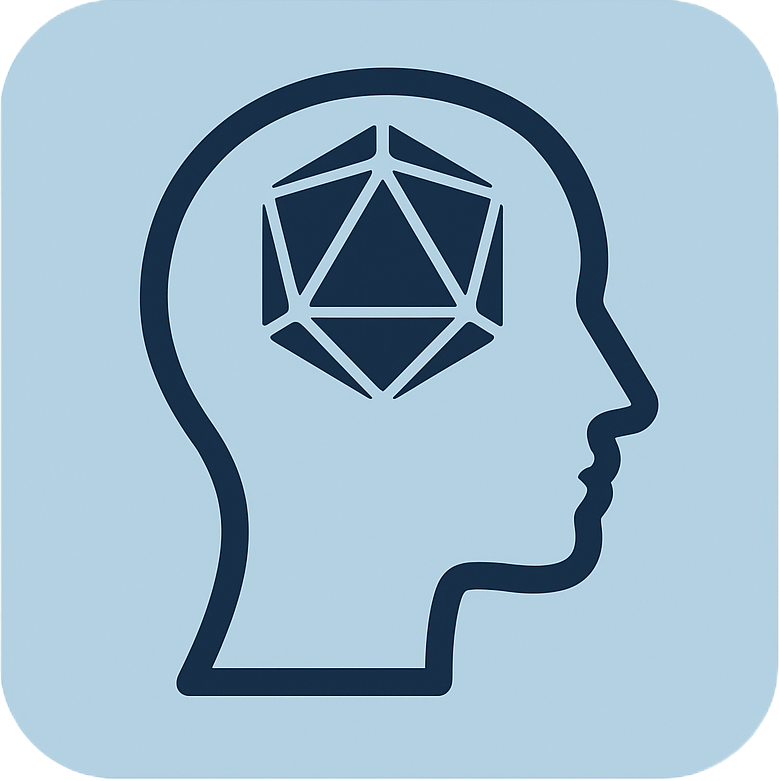
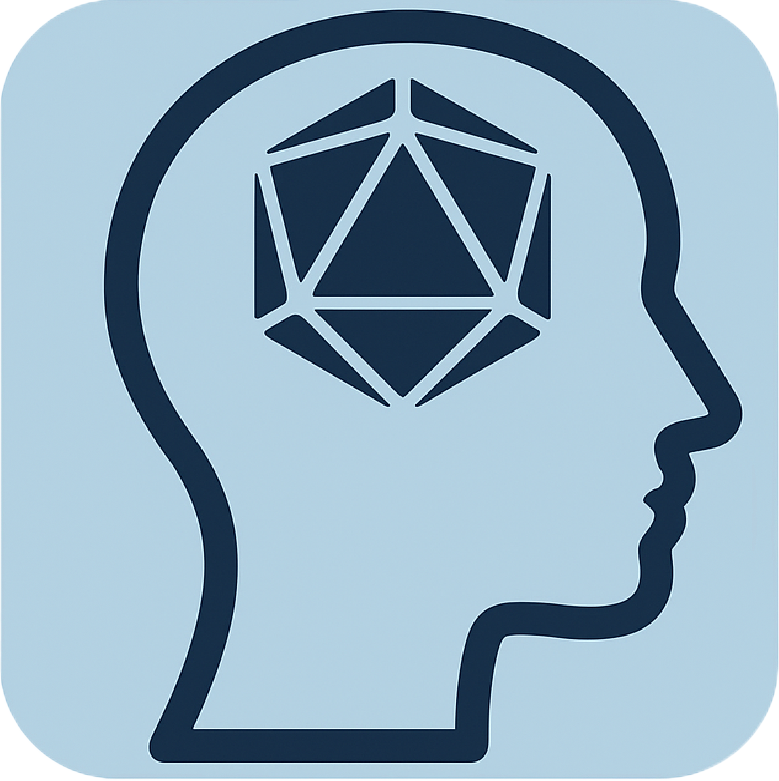
Add ICampaignRepository and SqliteCampaignRepository for use in the campaign selector combo box (coming) Update MainWindowViewModel to load campaigns Updated NoteBase to have a Campaign associated with the note Updated/Migrated EF database Updated AppIcon. not happy with it yet

Changed region(s): [[0.1232, 0.0, 0.9551, 0.9834]]

diff --git a/MindLedger.App/MainWindow.xaml b/MindLedger.App/MainWindow.xaml
@@ -27,7 +27,18 @@
             <ui:DropDownButton Margin="10"
                                Height="50"
                                Width="210"
-                               Content="Placeholder Kampagne"/>
+                               Content="Kampagne wählen"
+                               ClickMode="Press"
+                               IsDropDownOpen="True">
+                <ui:DropDownButton.Flyout>
+                    <ui:Flyout Placement="Bottom">
+                        <Border Background="White" BorderBrush="Gray" BorderThickness="1" Padding="10">
+                            <TextBlock Text="Testinhalt" Foreground="Black"/>
+                        </Border>
+                    </ui:Flyout>
+                </ui:DropDownButton.Flyout>
+            </ui:DropDownButton>
+            
             
             <Expander Header="Sessions"
                       IsExpanded="True"

diff --git a/MindLedger.Infrastructure/Repositories/SqliteCampaignRepository.cs b/MindLedger.Infrastructure/Repositories/SqliteCampaignRepository.cs
@@ -1,0 +1,73 @@
+using Microsoft.EntityFrameworkCore;
+using MindLedger.Domain;
+using MindLedger.Domain.Interfaces;
+using MindLedger.Infrastructure.Persistence;
+using System;
+using System.Collections.Generic;
+using System.Linq;
+using System.Text;
+using System.Threading.Tasks;
+
+namespace MindLedger.Infrastructure.Repositories
+{
+    public class SqliteCampaignRepository : ICampaignRepository
+    {
+        private readonly MindLedgerDbContext _context;
+
+        public SqliteCampaignRepository(MindLedgerDbContext context)
+        {
+            _context = context;
+        }
+
+
+        public async Task<List<Campaign>> GetAllAsync()
+        {
+            return await _context.Campaigns.ToListAsync();
+        }
+
+        public async Task<Campaign?> GetByIdAsync(Guid id)
+        {
+            return await _context.Campaigns.FindAsync(id);
+        }
+
+        public async Task<Campaign?> GetByTitleAsync(string title)
+        {
+            return await _context.Campaigns.FirstOrDefaultAsync(c => c.Title == title);
+        }
+
+        public async Task AddAsync(Campaign campaign)
+        {
+            _context.Campaigns.Add(campaign);
+            await _context.SaveChangesAsync();
+        }
+
+        public async Task UpdateAsync(Campaign campaign)
+        {
+            _context.Campaigns.Update(campaign);
+            await _context.SaveChangesAsync();
+        }
+
+        public async Task DeleteAsync(Guid id)
+        {
+            var campaign = await _context.Campaigns.FindAsync(id);
+            if (campaign != null)
+            {
+                _context.Campaigns.Remove(campaign);
+                await _context.SaveChangesAsync();
+            }
+        }
+
+        public async Task<List<NoteBase>> GetAllNotesByCampaignAsync(Guid campaignId)
+        {
+            var result = new List<NoteBase>();
+
+            result.AddRange(await _context.Sessions.Where(s => s.CampaignId == campaignId).ToListAsync());
+            result.AddRange(await _context.Charakters.Where(c => c.CampaignId == campaignId).ToListAsync());
+            result.AddRange(await _context.Npcs.Where(n => n.CampaignId == campaignId).ToListAsync());
+            result.AddRange(await _context.Locations.Where(l => l.CampaignId == campaignId).ToListAsync());
+            result.AddRange(await _context.WorldNotes.Where(w => w.CampaignId == campaignId).ToListAsync());
+
+            return result;
+        }
+    }
+}

diff --git a/MindLedger.AppLogic/ViewModels/MainWindowViewModel.cs b/MindLedger.AppLogic/ViewModels/MainWindowViewModel.cs
@@ -9,12 +9,14 @@ namespace MindLedger.AppLogic.ViewModels;
 
 public partial class MainWindowViewModel : ObservableObject
 {
+    private readonly ICampaignRepository _campaignRepository;
     private readonly INoteRepository _noteRepository;
     private readonly ITagRepository _tagRepository;
 
+    public ObservableCollection<Campaign> Campaigns { get; } = new();
+    public ObservableCollection<NoteBase> Notes { get; } = new();
     public ObservableCollection<Tag> AllTags { get; } = new();
     public ObservableCollection<Tag> SelectedTags { get; } = new();
-    public ObservableCollection<NoteBase> Notes { get; } = new();
 
     [ObservableProperty]
     private string title = string.Empty;
@@ -23,12 +25,31 @@ public partial class MainWindowViewModel : ObservableObject
     private string content = string.Empty;
 
     [ObservableProperty]
+    private Campaign? selectedCampaign;
+
+    [ObservableProperty]
     private NoteBase? selectedNote;
 
-    public MainWindowViewModel(INoteRepository noteRepository, ITagRepository tagRepository)
+    public MainWindowViewModel(INoteRepository noteRepository, ITagRepository tagRepository, ICampaignRepository campaignRepository)
     {
+        _campaignRepository = campaignRepository;
         _noteRepository = noteRepository;
         _tagRepository = tagRepository;
+    }
+
+    /// <summary>
+    /// Asynchronously loads all campaigns from the repository and updates the collection.
+    /// </summary>
+    /// <remarks>This method clears the current collection of campaigns and populates it with the campaigns retrieved
+    /// from the repository. It is intended to be used when refreshing or initializing the campaigns collection.</remarks>
+    /// <returns>A task that represents the asynchronous operation</returns>
+    [RelayCommand]
+    public async Task LoadCampaignAsync()
+    {
+        Campaigns.Clear();
+        var campaigns = await _campaignRepository.GetAllAsync();
+        foreach (var c in campaigns)
+            Campaigns.Add(c);
     }
 
 

diff --git a/MindLedger.Infrastructure/Migrations/20250622155447_AddCampaignIdToNoteBase.cs b/MindLedger.Infrastructure/Migrations/20250622155447_AddCampaignIdToNoteBase.cs
@@ -1,0 +1,37 @@
+using System;
+using Microsoft.EntityFrameworkCore.Migrations;
+
+#nullable disable
+
+namespace MindLedger.Infrastructure.Migrations
+{
+    /// <inheritdoc />
+    public partial class AddCampaignIdToNoteBase : Migration
+    {
+        /// <inheritdoc />
+        protected override void Up(MigrationBuilder migrationBuilder)
+        {
+            migrationBuilder.AlterColumn<Guid>(
+                name: "CampaignId",
+                table: "Notes",
+                type: "TEXT",
+                nullable: false,
+                defaultValue: new Guid("00000000-0000-0000-0000-000000000000"),
+                oldClrType: typeof(Guid),
+                oldType: "TEXT",
+                oldNullable: true);
+        }
+
+        /// <inheritdoc />
+        protected override void Down(MigrationBuilder migrationBuilder)
+        {
+            migrationBuilder.AlterColumn<Guid>(
+                name: "CampaignId",
+                table: "Notes",
+                type: "TEXT",
+                nullable: true,
+                oldClrType: typeof(Guid),
+                oldType: "TEXT");
+        }
+    }
+}

diff --git a/MindLedger.Infrastructure/Migrations/20250622155447_AddCampaignIdToNoteBase.Designer.cs b/MindLedger.Infrastructure/Migrations/20250622155447_AddCampaignIdToNoteBase.Designer.cs
@@ -2,6 +2,7 @@
 using System;
 using Microsoft.EntityFrameworkCore;
 using Microsoft.EntityFrameworkCore.Infrastructure;
+using Microsoft.EntityFrameworkCore.Migrations;
 using Microsoft.EntityFrameworkCore.Storage.ValueConversion;
 using MindLedger.Infrastructure.Persistence;
 
@@ -10,9 +11,11 @@ using MindLedger.Infrastructure.Persistence;
 namespace MindLedger.Infrastructure.Migrations
 {
     [DbContext(typeof(MindLedgerDbContext))]
-    partial class MindLedgerDbContextModelSnapshot : ModelSnapshot
+    [Migration("20250622155447_AddCampaignIdToNoteBase")]
+    partial class AddCampaignIdToNoteBase
     {
-        protected override void BuildModel(ModelBuilder modelBuilder)
+        /// <inheritdoc />
+        protected override void BuildTargetModel(ModelBuilder modelBuilder)
         {
 #pragma warning disable 612, 618
             modelBuilder.HasAnnotation("ProductVersion", "9.0.6");

diff --git a/MindLedger.Domain/Interfaces/ICampaignRepository.cs b/MindLedger.Domain/Interfaces/ICampaignRepository.cs
@@ -1,0 +1,21 @@
+using System;
+using System.Collections.Generic;
+using System.Linq;
+using System.Text;
+using System.Threading.Tasks;
+
+namespace MindLedger.Domain.Interfaces
+{
+    public interface ICampaignRepository
+    {
+        Task<List<Campaign>> GetAllAsync();
+        Task<Campaign?> GetByIdAsync(Guid id);
+        Task<Campaign?> GetByTitleAsync(string title);
+        Task AddAsync(Campaign campaign);
+        Task UpdateAsync(Campaign campaign);
+        Task DeleteAsync(Guid id);
+
+        // Get all related notes
+        Task<List<NoteBase>> GetAllNotesByCampaignAsync(Guid campaignId);
+    }
+}

diff --git a/MindLedger.Domain/NoteBase.cs b/MindLedger.Domain/NoteBase.cs
@@ -10,4 +10,7 @@ public abstract class NoteBase
     public DateTime UpdatedAt { get; set;} = DateTime.Now;
 
     public List<Tag> Tags { get; set; } = new();
+
+    public Guid CampaignId { get; set; }
+    public Campaign? Campaign { get; set; }
 }
